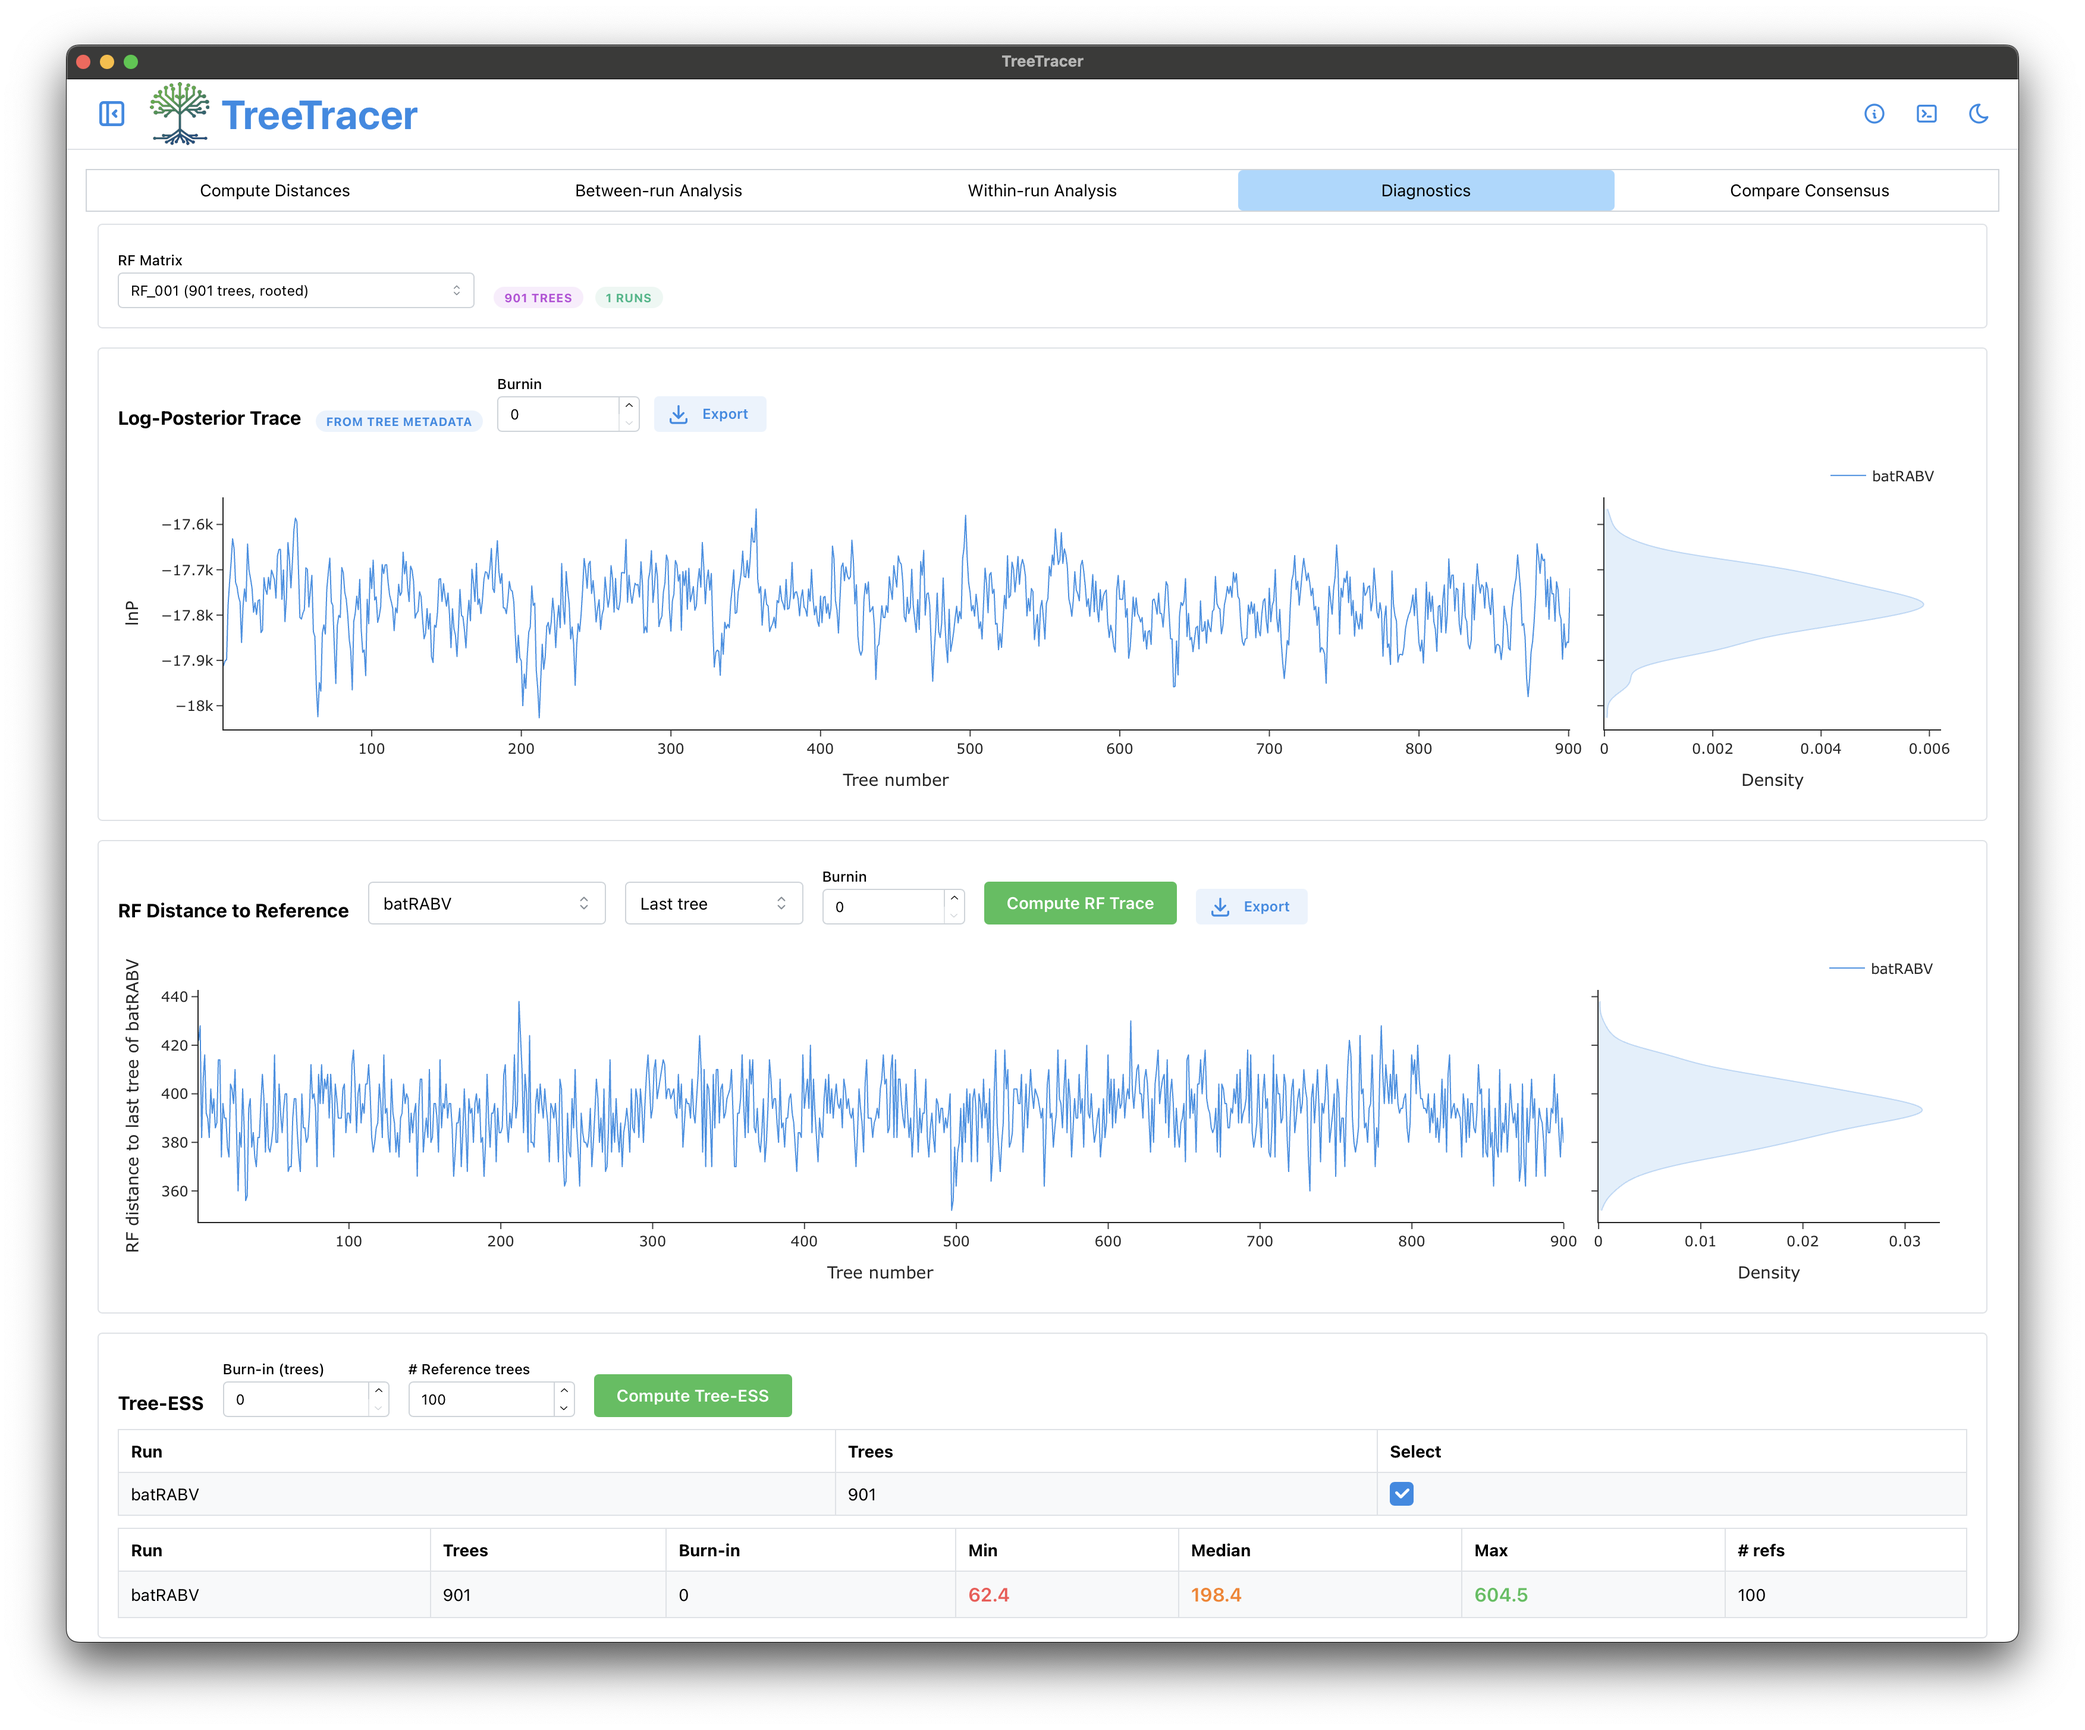
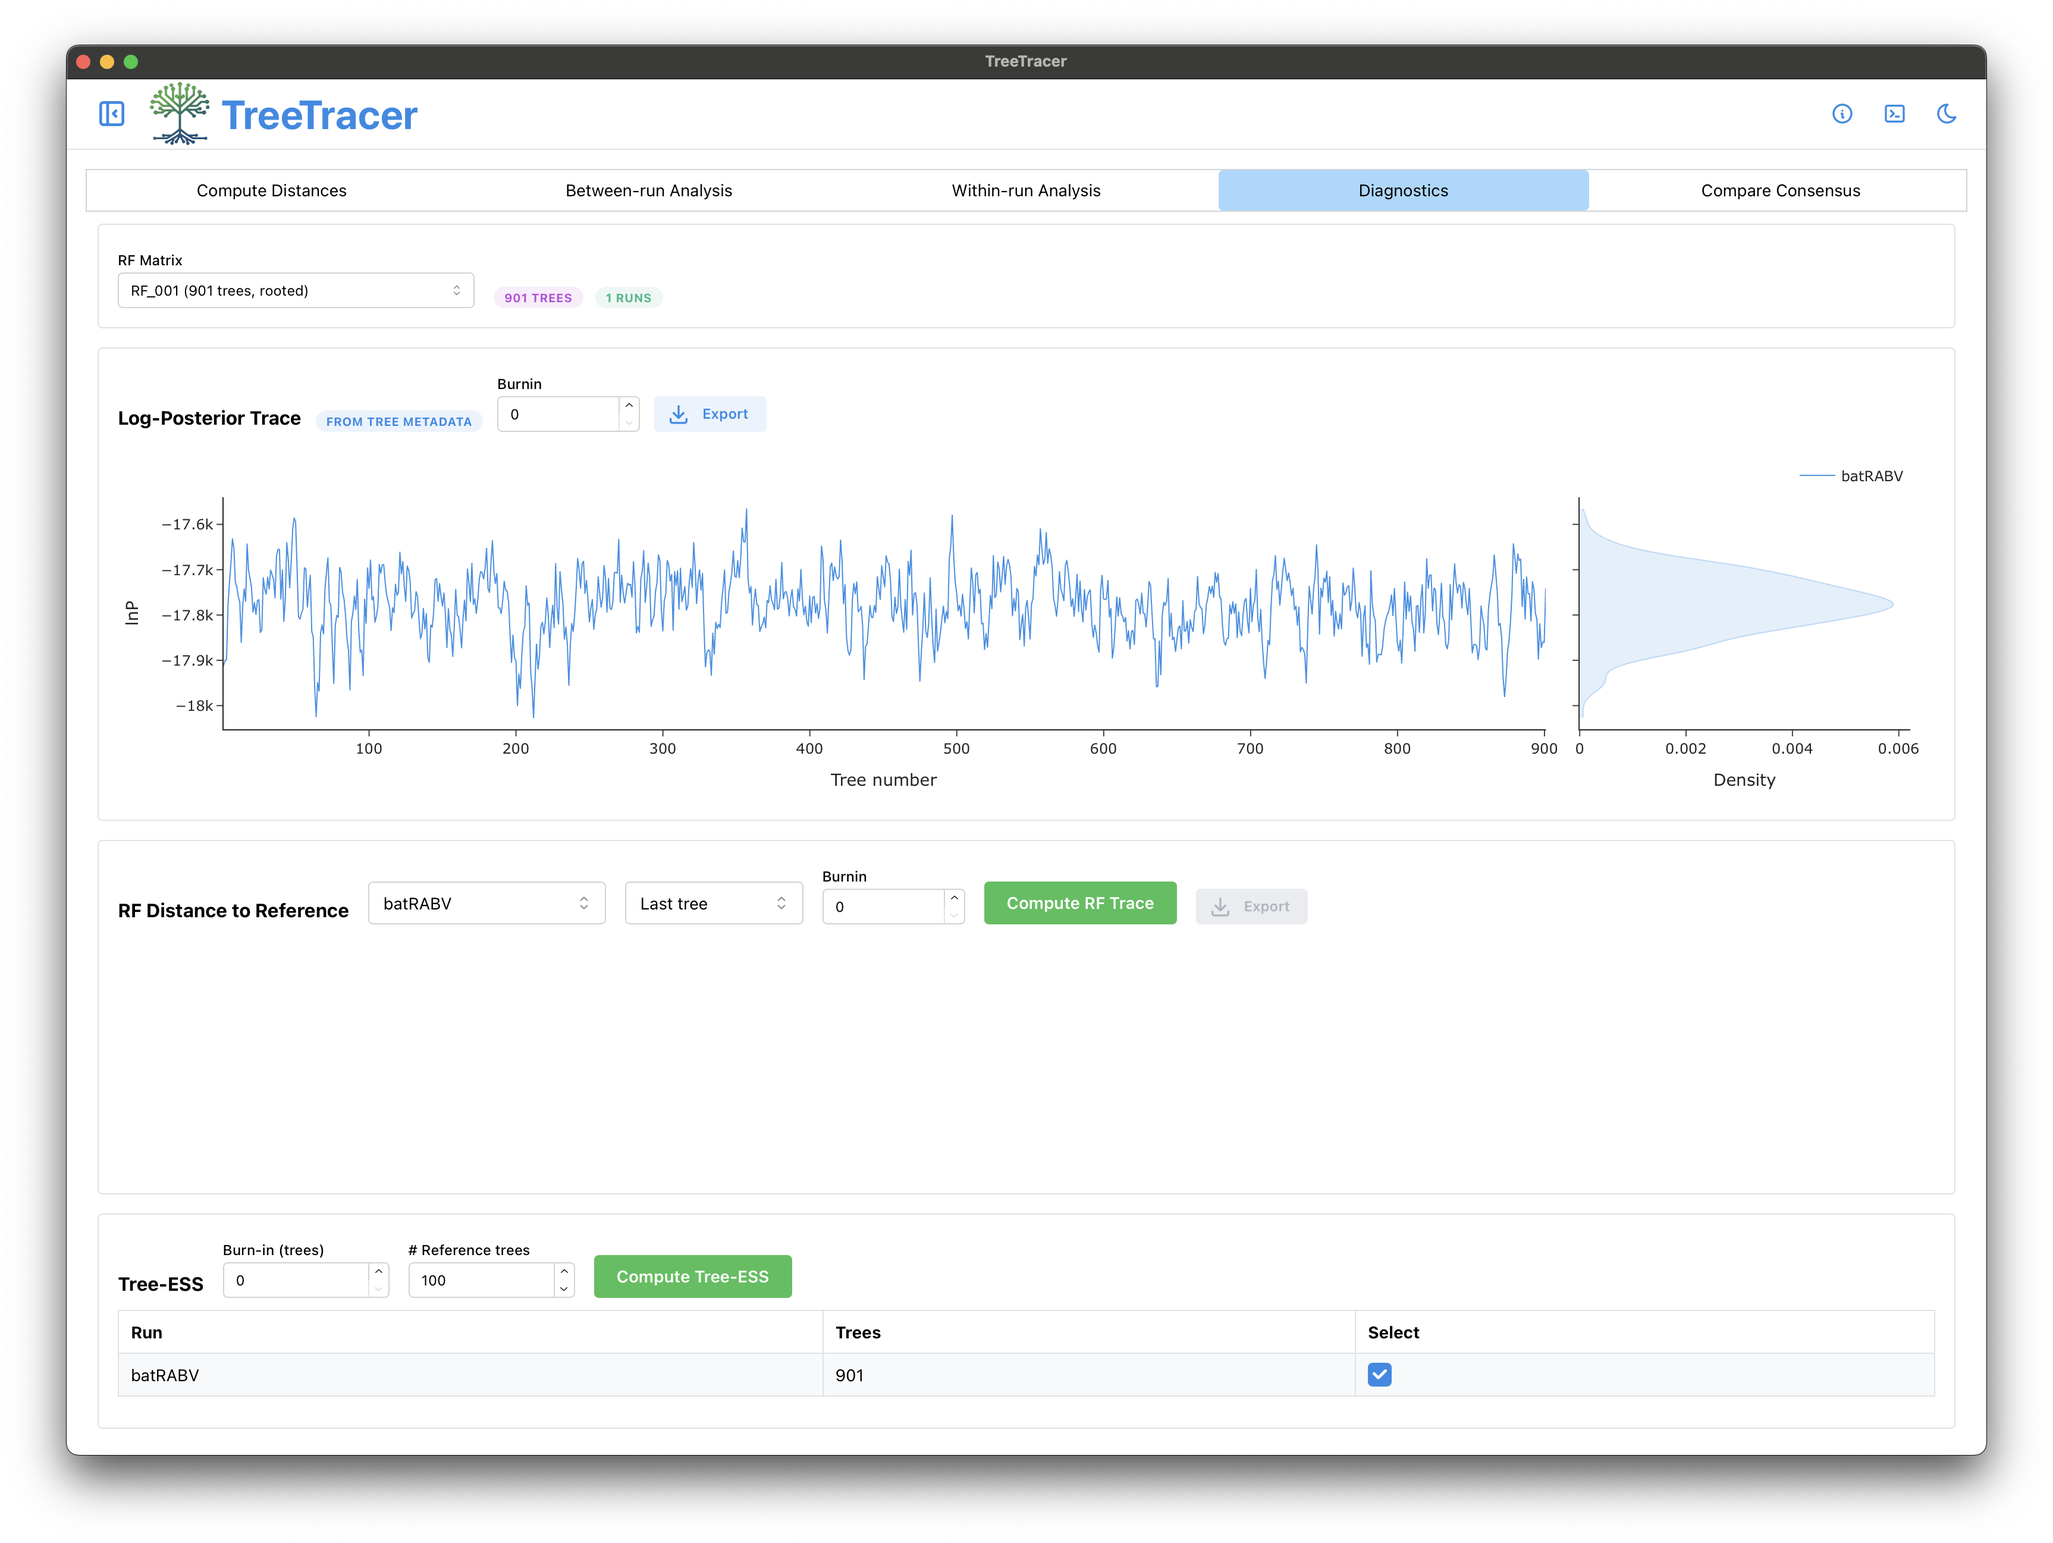
updating TreeTracer figures

diff --git a/tutorials/howtos/beast_analysing_beast_output.md b/tutorials/howtos/beast_analysing_beast_output.md
@@ -266,6 +266,10 @@ You can now click View Consensus Tree to have TreeTracer compute a consensus tre
 
 {% include image.html file="treetracer13.png" prefix="/tutorials/howtos/" %}<br />
 
+{% include image.html file="treetracer14.png" prefix="/tutorials/howtos/" %}<br />
+
+{% include image.html file="treetracer15.png" prefix="/tutorials/howtos/" %}<br />
+
 Note that in this tutorial we looked into convergence and mixing of a single BEAST analysis (and hence a single .trees file).
 
 
